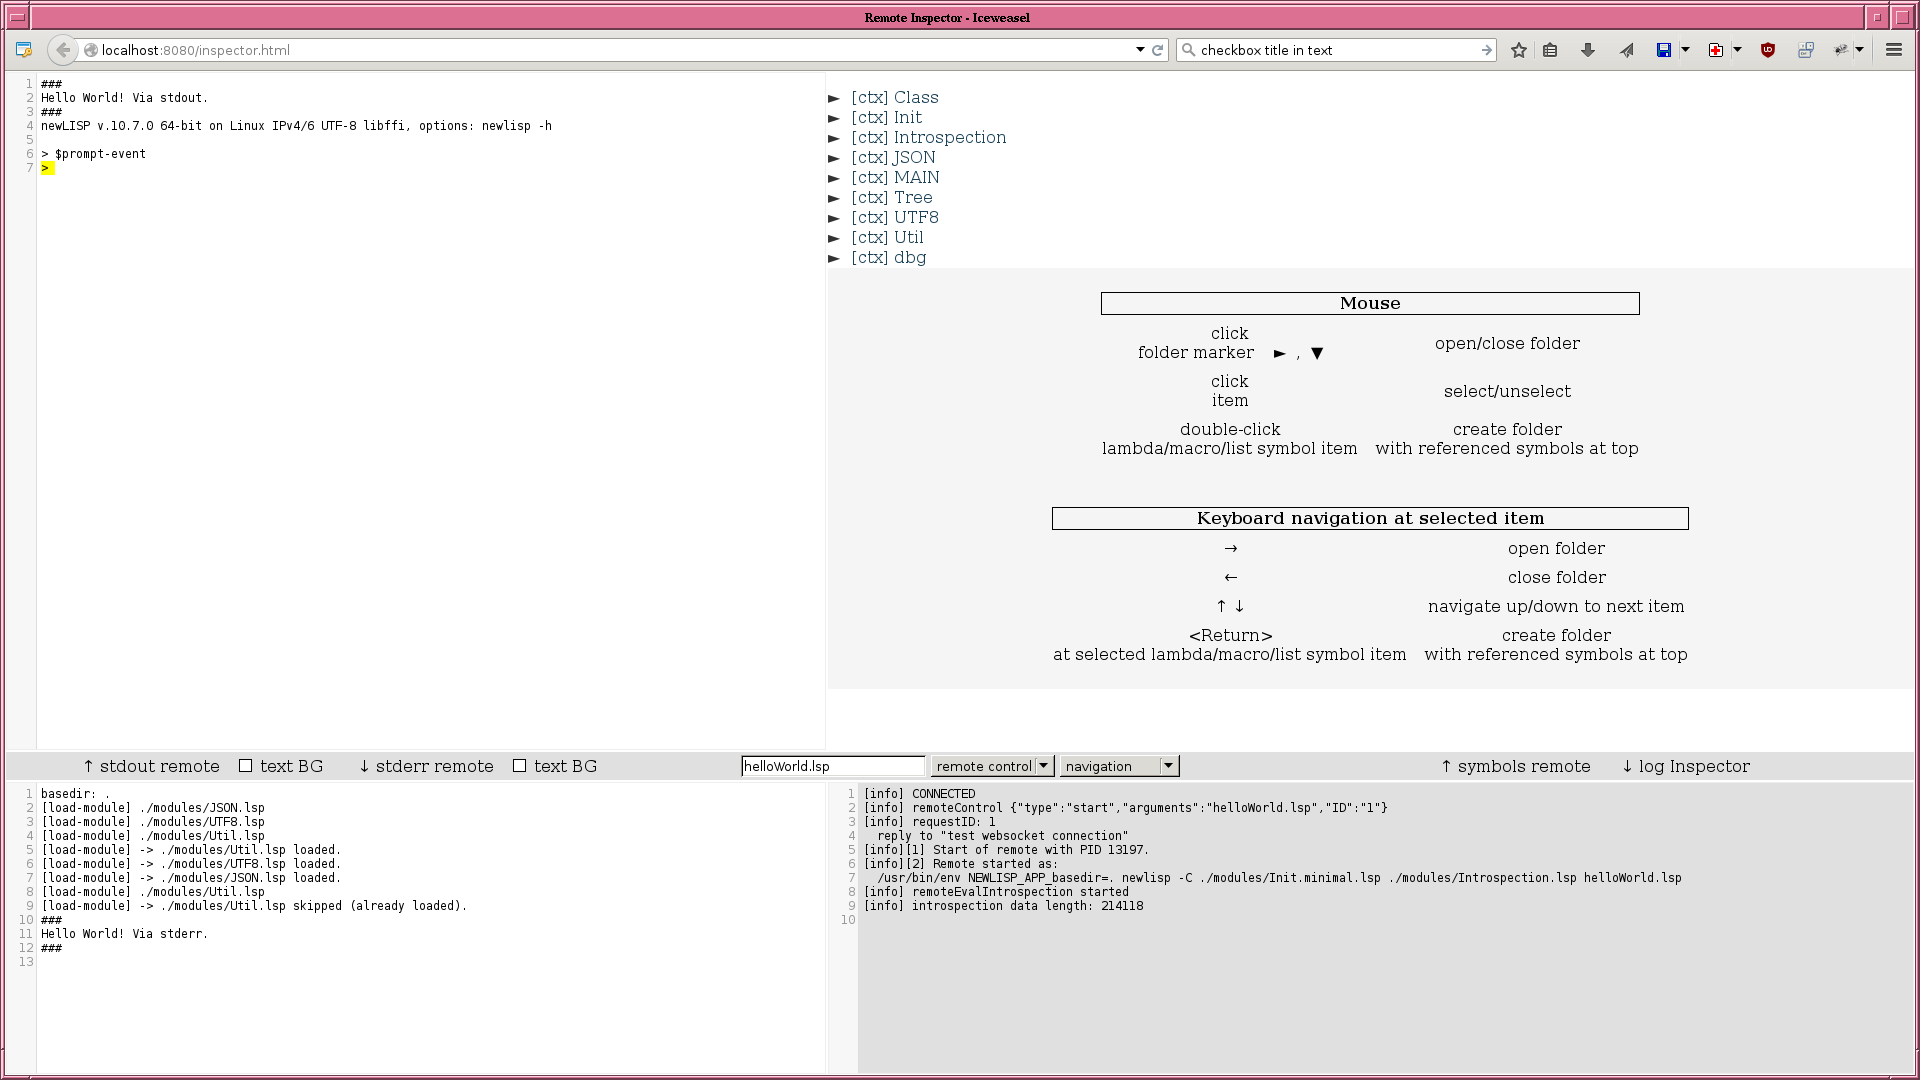
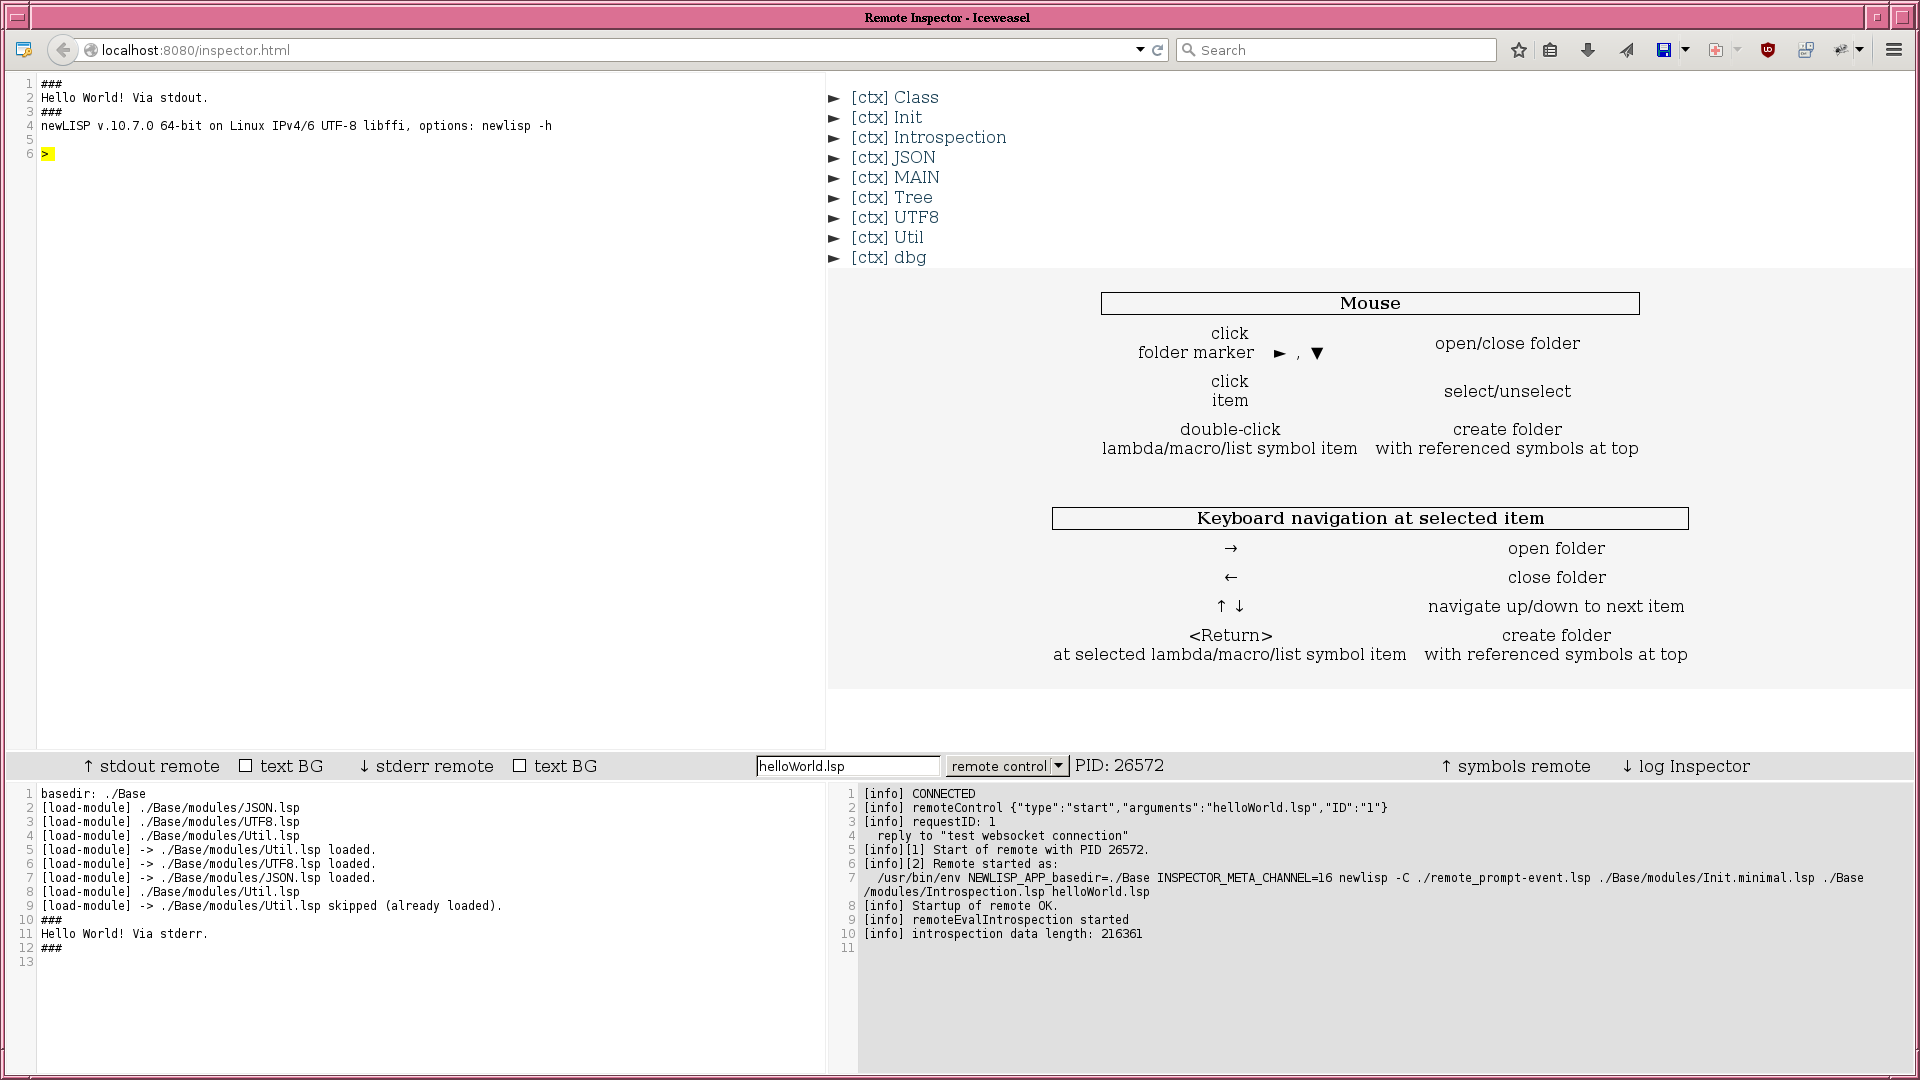
[update] README.md, screenshots

diff --git a/README.md b/README.md
@@ -6,10 +6,16 @@ Directly to [How to start](#how-to-start).
 
 ### News
 
-- v0.4.1 [enh] text BG switch for remote console windows  
-  Good for visualizing WS.
+- v0.4.2
+  - symbols view: more detailed info about dynsyms
+  - permanently show PID of remote and remote's status
+  - better interrupt handling: now it works for remote startup code given by startup arguments, too.
+  
+- v0.4.1
+  - text BG switch for remote console windows: good for visualizing WS.
 
-- v0.4: Working horse application of Inspector is 'Remote Inspector' now (big changes in comparison to v0.3)  
+- v0.4
+  Working horse application of Inspector is 'Remote Inspector' now (big changes in comparison to v0.3)  
   An adiitional newLISP process will be started as a remote (a former one is Inspector's webserver process serving the browser GUI), which will be controlled by Remote Inspector's GUI.
 
   See [Remote Inspector](#remote-inspector) for a description.
@@ -27,6 +33,9 @@ Note: mouse pointer at bottom-right corner of remote console gives resize handle
 
 #### Remote Inspector: debugging session
 ![](screenshot_RI_debugging.png)
+
+#### Remote Inspector: dynamic symbols (dynsyms)
+![](screenshot_RI_dynsyms.png)
 
 #### Inspector's webserver's symbols (serving Remote Inspector GUI)
 ![](screenshot_symbols_webserver.png)
